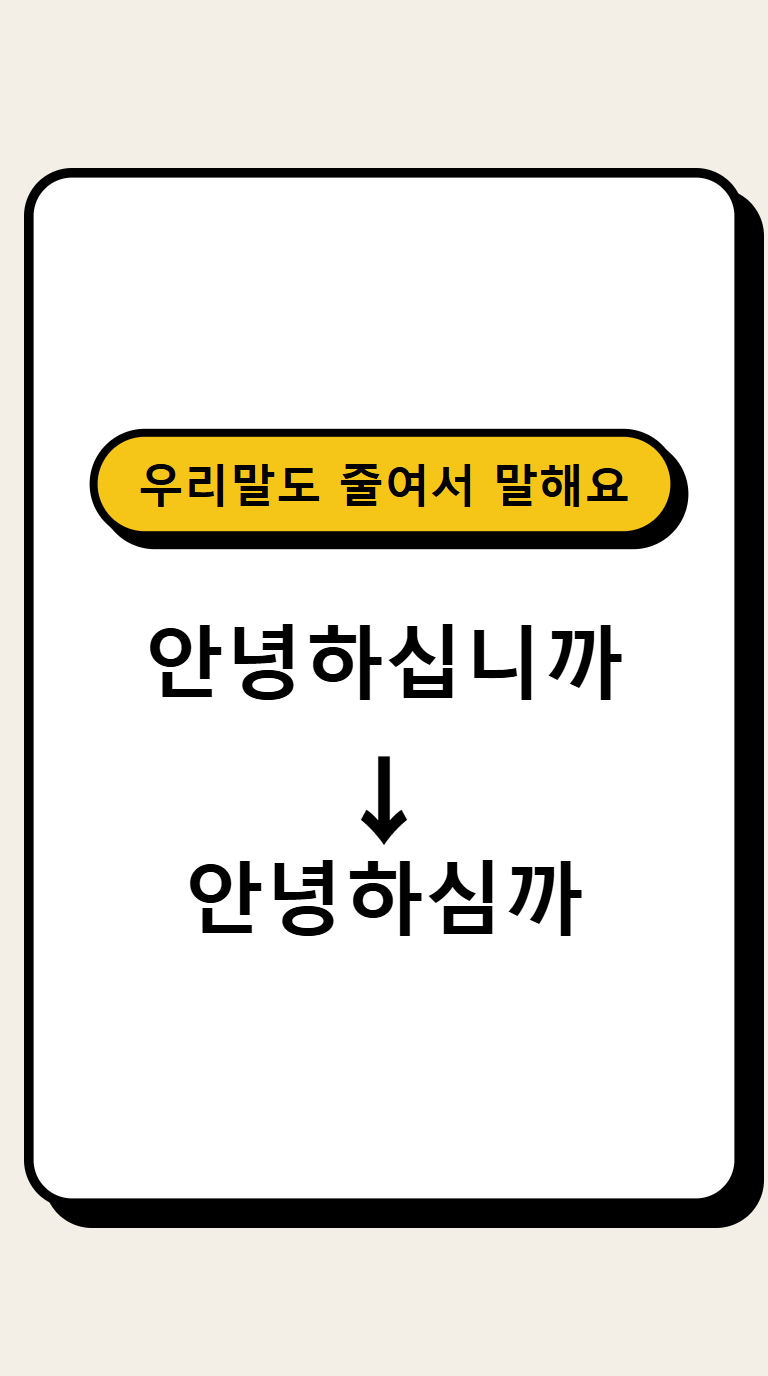
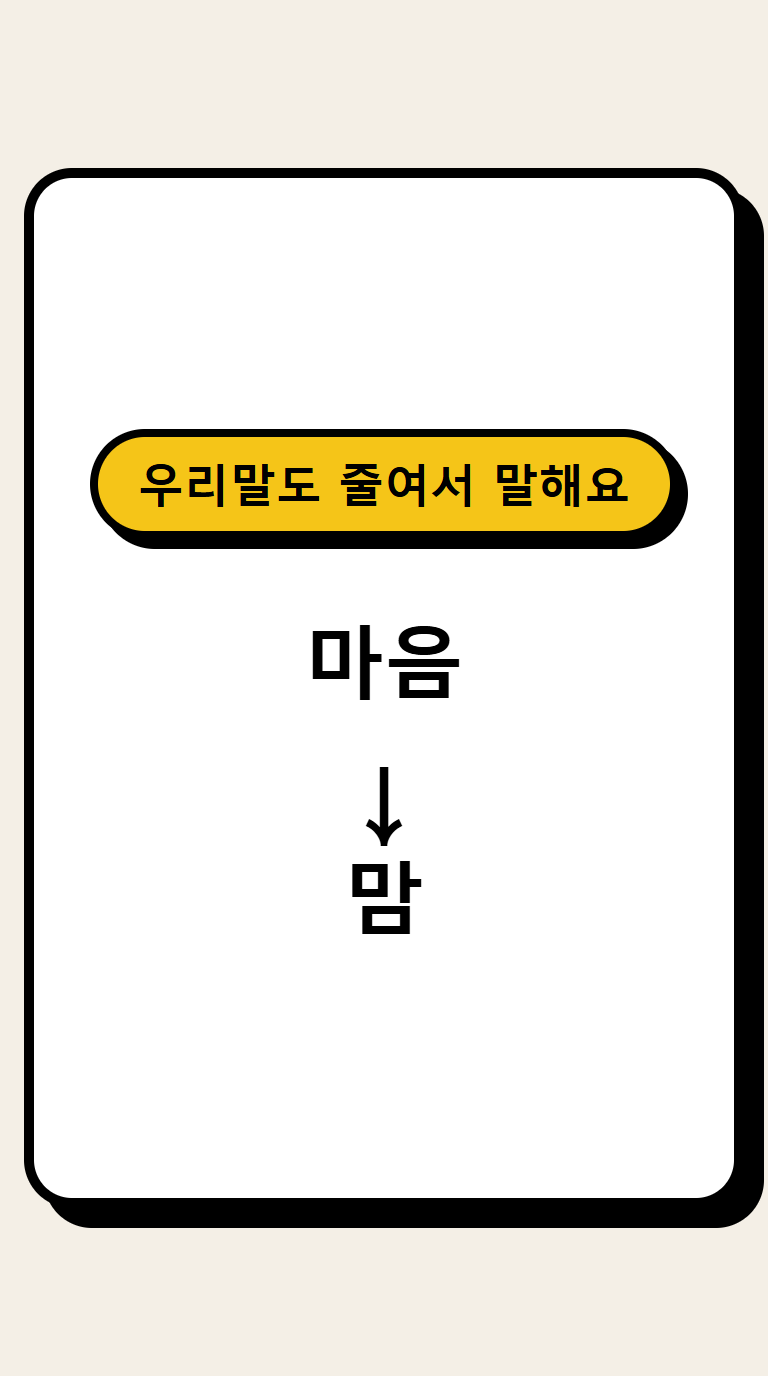
docs: 쇼츠 길이 기준 정정(45초는 규칙 아님), 9.5초 비유를 마음→맘으로 교체하고 카드 두 장 다시 그림

Changed region(s): [[0.25, 0.5625, 0.75, 0.6875], [0.1875, 0.4375, 0.4688, 0.5312], [0.5, 0.4375, 0.8125, 0.5312]]

diff --git a/videos/ep30-shorts-chocolate/FACT-CHECK.md b/videos/ep30-shorts-chocolate/FACT-CHECK.md
@@ -19,7 +19,7 @@
 | 0초 | 초콜릿, 어떻게 읽으세요? | 확인됨 | [국어원] 표준 표기가 "초콜릿" | 유지 |
 | 2.2초 | 글자는 초콜릿, 소리는 초클릿 | **일부 확인** | [MW-chocolate] 가운데 모음 ə가 선택 표기다. "초클릿"은 한글로 소리를 흉내 낸 근사치라 사전 근거가 아니다 | "소리는 초클릿처럼 들려요"로 좁힌다. 음성을 만든 뒤 소리와 대조(청취 필요) |
 | 5.5초 | 빨리 말하면 가운데 글자 소리가 거의 안 들려요 | **일부 확인** | [MW-chocolate] 사전은 "선택(괄호)"까지만 적는다. "거의 안 들린다"는 사전이 직접 말하지 않는 소리 현상이다 | "원어민은 안 읽는다"처럼 단정하지 않는다. 음성 파일로 청취 필요 |
-| 9.5초 | 우리말도 안녕하십니까를 안녕하심까로 줄이잖아요 | **확인 안 됨** | 출처는 경쟁 영상 시청자 댓글뿐이고 표준발음법 원문은 열지 않았다. 표준 발음 [안녕하심니까]와 구어 줄임 "안녕하심까"는 다르다 | 규정이 아니라 일상 말버릇이라는 뜻의 문장으로 유지하거나, 표준발음법을 열어 확인할 때까지 "안녕하세요를 안녕하셈"처럼 흔한 예로 바꾸는 것을 사용자와 정한다 |
+| 9.5초 (수정 전) | 우리말도 안녕하십니까를 안녕하심까로 줄이잖아요 | **확인 안 됨 → 교체** | 출처는 경쟁 영상 시청자 댓글뿐이고 표준발음법 원문은 열지 않았다. 표준 발음 [안녕하심니까]와 구어 줄임 "안녕하심까"는 다르다 | 규정이 아니라 일상 말버릇이라는 뜻의 문장으로 유지하거나, 표준발음법을 열어 확인할 때까지 "안녕하세요를 안녕하셈"처럼 흔한 예로 바꾸는 것을 사용자와 정한다 |
 | 9.5초 | 영어도 똑같아요 | **일부 확인** | [MW-chocolate][MW-different][MW-memory] 사전이 가운데 모음을 선택·줄인 표기로 싣는다. "똑같다"는 과하다 | "영어도 비슷해요"로 교체 |
 | 14초 | 채소 베지터블, 이렇게 읽으셨죠? | **일부 확인** | "베지터블"은 시청자 읽기를 흉내 낸 표기다. 한글 표기가 표준이라는 주장이 아니다. 시청자의 읽기를 지레짐작하는 문장이다 | "베지터블이라고 읽기 쉬워요"로 좁힌다(질문 어투로 시청자를 특정하지 않는다) |
 | 17.3초 | 여기도 가운데 소리가 거의 안 들려요 | **확인됨** | [Oxford-vegetable] `/ˈvedʒtəbl/` 가운데 모음 없음 | 유지 |
@@ -54,7 +54,16 @@
 5. 이 표의 수정안은 아직 `SCRIPT.md`에 반영하지 않았다. 대본(`SCRIPT.md`)은 BRIEF와 함께 폴더를 정한 뒤 만든다.
 
 ## 결정 반영 (2026-11-14, 사용자 "권고대로")
-1. 퀴즈는 "사전은 둘 다 적는다"로 닫는다. 시트 40초 나레이션과 알약 글자를 "사전은 어떻게 적었는지 고정 댓글에 있어요", "사전 표기는 고정 댓글에서"로 고쳤다. `cut-12.png`의 이전 글자("정답은 고정 댓글에서")는 이미지라 안 바뀌었다 → 영상 제작 때 코드로 다시 그린다.
+1. 퀴즈는 "사전은 둘 다 적는다"로 닫는다. 시트 40초 나레이션과 알약 글자를 "사전은 어떻게 적었는지 고정 댓글에 있어요", "사전 표기는 고정 댓글에서"로 고쳤다. `cut-12.png`는 같은 날 코드로 다시 그렸다.
 2. 제목 2번은 "chocolate에서 어디가 거의 안 들릴까? 아는 단어 5개"로 바꿨다(시트 `titles`·`titlePicks`).
 3. 폴더 이름 `ep30-shorts-chocolate` 유지.
-4. 위 표의 대본 수정안 5개(소리는 초클릿"처럼 들려요", "비슷해요", "읽기 쉬워요", "줄어들기도 해요", "줄기도 해요")도 시트 나레이션에 반영했다. 안녕하십니까→안녕하심까와 길이(50초, 기준 45초 이내)는 사용자 결정 대기.
+4. 위 표의 대본 수정안 5개(소리는 초클릿"처럼 들려요", "비슷해요", "읽기 쉬워요", "줄어들기도 해요", "줄기도 해요")도 시트 나레이션에 반영했다. 안녕하십니까→안녕하심까는 "마음→맘"으로 교체했다(아래 "교체 근거"). 길이 50초는 그대로 둔다(45초 이내는 규칙이 아니다, 근거는 BRIEF 길이 항목).
+
+## 교체 근거: 9.5초 비유 (2026-11-14, `opus-expert` 판단 후 직접 확인)
+
+| 위치 | 주장 | 판정 | 근거 | 조치 |
+|---|---|---|---|---|
+| 9.5초 | 우리말도 마음을 맘이라고 줄여 말하잖아요 | 확인됨 | [국어원] 표준국어대사전 "맘" 「명사」「1」 '마음'의 준말(직접 열어 읽음) | 유지 |
+| 9.5초 (옛 문장) | 안녕하십니까를 안녕하심까로 줄인다 | 확인 안 됨 | [국어원] "안녕하심까" 검색 0건. 근거는 경쟁 영상 시청자 댓글 1개(좋아요 1). 표준발음법 제18항은 "십→심"(받침 ㅂ이 ㄴ 앞에서 ㅁ)까지만 규정하고, 줄어든 것은 "니" 한 글자라 모음이 빠지는 chocolate과 결이 다르다 | 삭제 |
+
+한계: "맘"은 굳은 준말이라 같은 단어가 빨리 말할 때 줄어드는 chocolate과 완전히 같은 현상은 아니다. 그래서 문장에 "빨리 말하면"을 넣지 않았다. 대안 후보 "가지고→갖고"(표준국어대사전 "갖다 '가지다'의 준말")는 말로 하면 어색해 쓰지 않았다.

diff --git a/videos/ep30-shorts-chocolate/BRIEF.md b/videos/ep30-shorts-chocolate/BRIEF.md
@@ -7,7 +7,7 @@ destination: youtube-shorts
 aspect: 1080x1920
 language: ko
 audience: "한국에서 영어를 배운 3060 성인 학습자"
-length: 45초 이내 (비교 시트 컷 계획은 50초, 줄일지 결정 대기)
+length: 50초 안팎 (비교 시트 컷 계획 50초. 내용에 필요한 만큼, 45초 이내는 규칙이 아니라 이전 쇼츠의 관행이었다)
 angle: reveal
 ---
 
@@ -19,6 +19,7 @@ angle: reveal
 
 - **제목**: 비교 시트 `SbQVBQoRciA`에서 사용자가 고른 3개 중 하나를 업로드 때 정한다(유튜브 제목·썸네일 테스트에 서로 다른 컨셉 3개). 2번 제목은 2026-11-14에 "chocolate에서 어디가 거의 안 들릴까? 아는 단어 5개"로 바꿨다.
 - **형식**: 반전·발견 (`knowledge/content-formats.md` Track B), 마지막 한 단어(vulnerable)만 퀴즈.
+- **길이 (2026-11-14 사용자: 권고대로)**: 50초 안팎, 내용에 필요한 만큼 둔다. 45초 이내는 2026-11-06 기록(`knowledge/logs/2026-11.md`)에서 나온 관행이고 규칙이 아니다. 조회 200회 이상 쇼츠 47편 재계산(2026-11-14): 31~45초(n=9) 평균 시청률 중앙값 96.1%·평균 시청 32초·조회 중앙값 1,080회, 46~60초(n=13) 53.1%·27초·1,218회. 평균 시청률(%)은 짧을수록 구조적으로 높아 길이 기준의 근거가 못 된다.
 - **공개**: 정해지지 않음. 공개 일정은 올리기 전에 확인한다(불변 규칙).
 
 ## 이 쇼츠에만 있는 코너
@@ -35,7 +36,7 @@ angle: reveal
 - 경쟁 영상: 조밥잉글리쉬 (UCV10iJPWgMrwnbyImNftcAA) · SbQVBQoRciA · "한국인이 자주 틀리는 영어 발음 5개" · 평소 대비 570배
 - 경쟁 영상: 다니엘 잉글리시 클럽! 다잉클! (UCR8fzJ6zX3HeC2n-agUtyzg) · pvPBD9PLuyk · "영어 발음이 어려운이유" · 평소 대비 2380배
 - 경쟁 영상: 렉스쌤의 왕초보영어훈련소 (UCE7K7KI2DVAUxleiclgFukA) · 8-3QjaGbMHU · "영어 읽는법 1편" · 평소 대비 51배
-- 시청자 고민: 없음 (시청자 고민 데이터 항목이 아니라 경쟁 영상 시청자 댓글의 비유("안녕하십니까→안녕하심까")를 가져왔다)
+- 시청자 고민: 없음 (시청자 고민 데이터 항목이 아니라 경쟁 영상 시청자 댓글의 발상("한국어도 줄여 말한다")만 가져오고 예는 사전에 있는 "마음→맘"으로 바꿨다)
 - 통한 요소 기록: 없음
 - 웹: 사전 직접 열람 — Merriam-Webster(vulnerable·chocolate·memory·different), Cambridge(vulnerable·different), Oxford Learner's(vegetable), 표준국어대사전("초콜릿"). 근거와 판정은 `FACT-CHECK.md`.
 - 비교 시트: SbQVBQoRciA (한국 사람이 아는 단어, 빨리 말하면 가운데 소리가 거의 안 들린다)
@@ -53,7 +54,7 @@ angle: reveal
 | EP29 | 땡큐 베리 머치의 '베리', 과일 베리가 아닙니다 | 인사말 하나를 다시 듣기 | 롱폼 안내 |
 | **이번** | 초콜릿 영어 발음, 빨리 말하면 가운데 소리가 거의 안 들려요 (아는 단어 5개) / 질문형 ("어디가 거의 안 들릴까?") | 한 단어 도입 → 같은 틀 단어 3개 → 정리표 → 퀴즈 | 고정 댓글(사전 표기), 롱폼 없음 |
 
-겹침: 직전 5편은 모두 소리 쌍·쌍둥이 단어 비교인데 이번은 "소리가 줄어드는 5개 단어"로 주제가 다르다. 제목은 "…입니다/…까요" 문장형이 많았는데 이번 1번은 설명형+괄호, 2번은 질문형이라 EP26·28과 일부 겹칠 수 있다. 쇼츠 길이는 최근 5편 모두 45초 이내인데 이번 컷 계획은 50초다.
+겹침: 직전 5편은 모두 소리 쌍·쌍둥이 단어 비교인데 이번은 "소리가 줄어드는 5개 단어"로 주제가 다르다. 제목은 "…입니다/…까요" 문장형이 많았는데 이번 1번은 설명형+괄호, 2번은 질문형이라 EP26·28과 일부 겹칠 수 있다. 이전 쇼츠 5편은 45초 이내였지만 그 기준은 규칙이 아니고 근거가 약하다(위 "길이" 항목). 이번 컷 계획은 50초다.
 
 ## 연결
 
